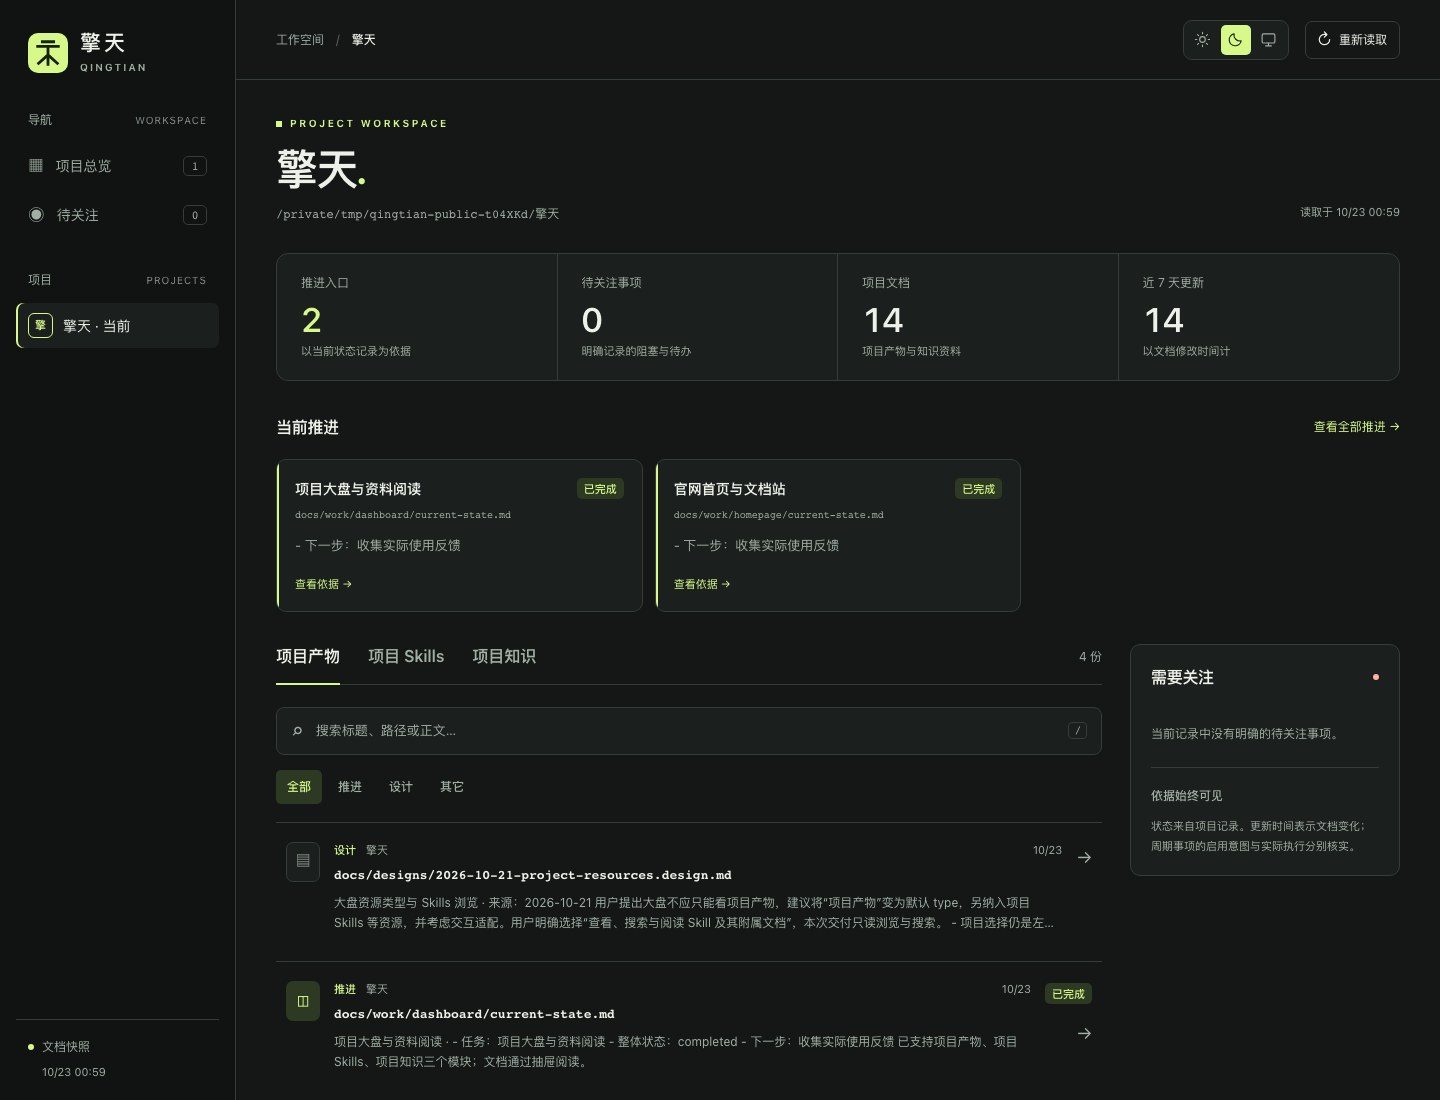
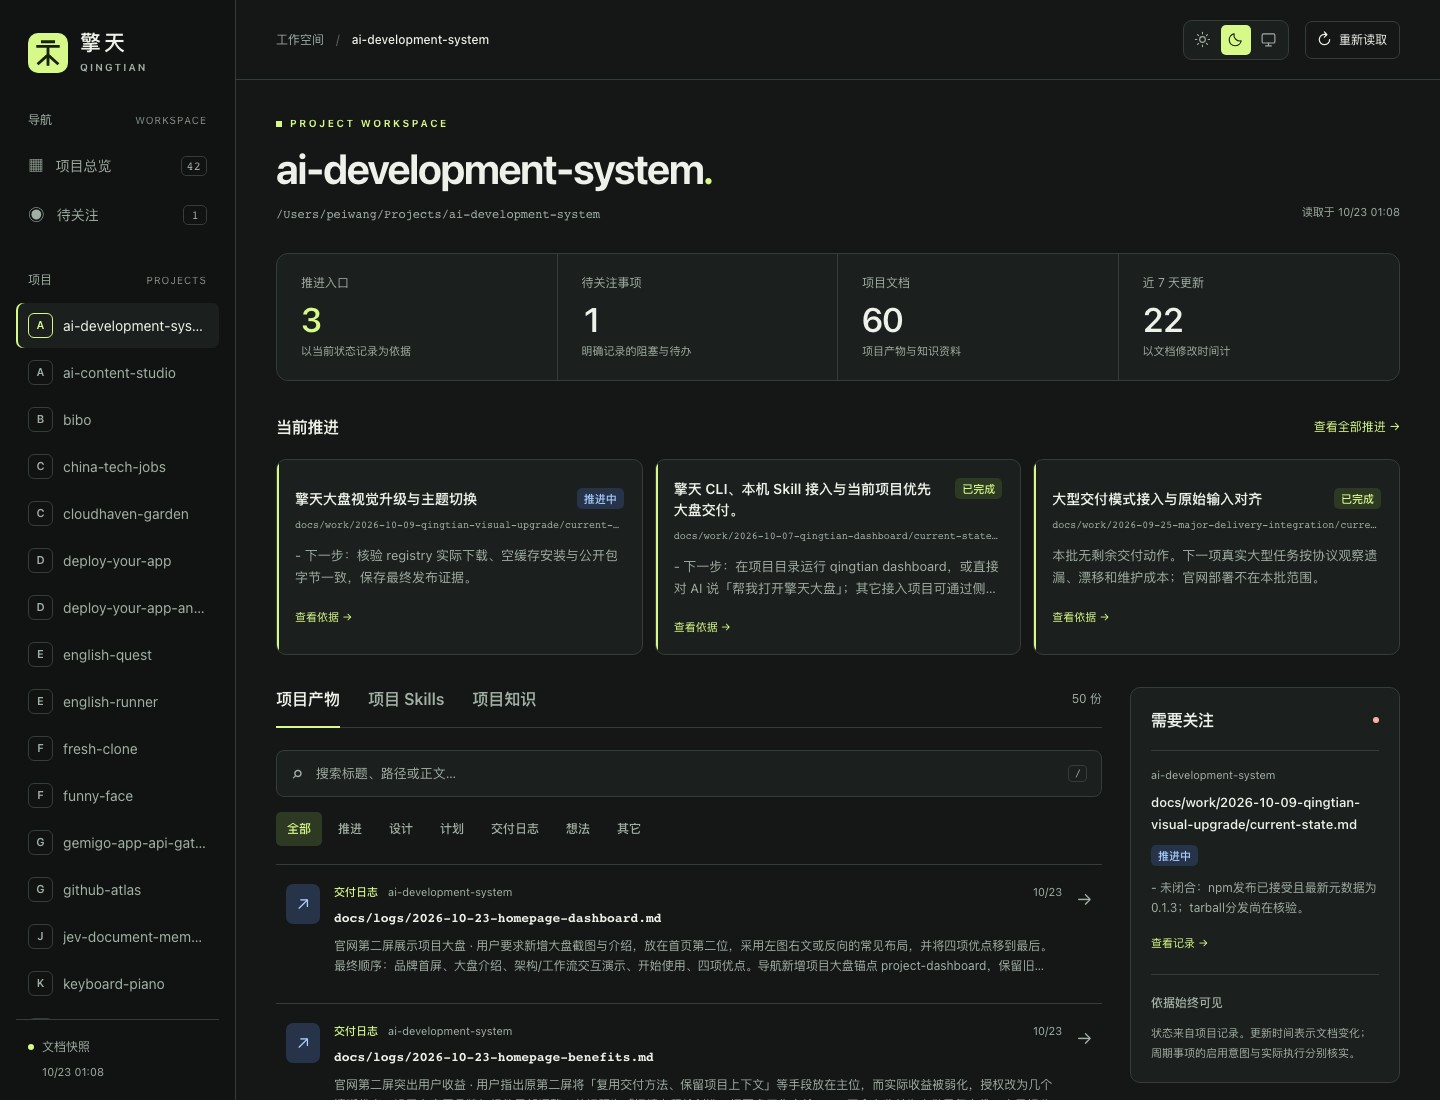
Use real local multi-project dashboard screenshot

diff --git a/docs/logs/2026-10-23-homepage-dashboard.md b/docs/logs/2026-10-23-homepage-dashboard.md
@@ -9,3 +9,9 @@
 发布采用 content-only 构建，保持既有安装包、入口和 checksum 不变；上线回读已通过。原视觉升级工作记录的未提交改动保留。复盘：用户要求展示实际产品时，用真实渲染器与可公开资料形成产品画面，优点和实现介绍按阅读顺序安排；无需新增全局规则。
 
 01:00 公开交付完成：提交 `7bad1cb` 已同步 origin/main，官网部署 `19404249-5c5d-4cb0-802b-76c8ce021d91`。首页、CSS、截图及五份保留分发文件均 HTTP 200 且与受测构建逐字节一致，记录 `.local/home-dashboard/public.json`。已打开线上 `#project-dashboard` 并核对实际图片与入口，画面 `live.png`。验收、发布与复盘完成，无新增规则；用户可继续在官网验收布局。
+
+## 01:08 用户纠正：直接使用本地真实大盘
+
+用户指出隔离资料快照过于简单，要求直接截图本地真实大盘，并允许显示多个项目。前述精简截图已被替换：从仓库 CLI 启动本地大盘，直接截取当前项目首页，保留真实的 42 个项目侧栏、3 项推进、60 份文档及待关注记录。1440×1100 JPEG；没有改写 DOM、伪造任务或增加示例项目。画面包含当前项目本机路径与可见项目名称，未见 token 或凭据。右侧内容沿实际记录展示，不把历史未闭合状态改成完成。
+
+用户需求是展示产品真实使用的信息密度，因此不再用删减资料重建的大盘替代真实工作空间。保留既有左图右文及移动端排版，仅更新截图。发布前已查看真实画面；采用 content-only 构建保持安装包不变。
